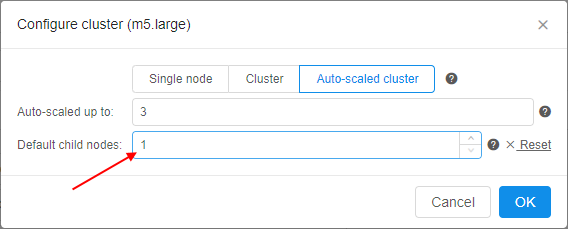
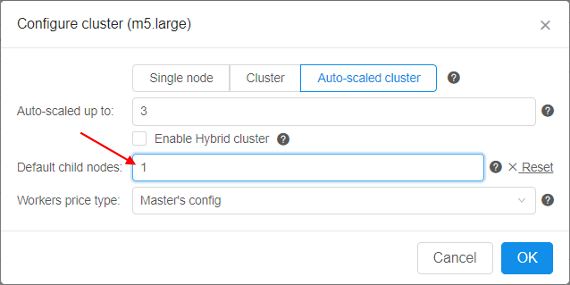
Minor changes in auto-scaled cluster description

diff --git a/docs/md/manual/06_Manage_Pipeline/6._Manage_Pipeline.md b/docs/md/manual/06_Manage_Pipeline/6._Manage_Pipeline.md
@@ -198,7 +198,7 @@ A configuration specifies:
 |  | **Docker image** | A name of a Docker image to use for a pipeline execution (e.g. "library/gromacs-gpu"). |
 |  | **Node type** | An instance type in terms of the specific Cloud Provider: CPU, RAM, GPU (e.g. 2 CPU cores, 8 Gb RAM, 0 GPU cores). |
 |  | **Disk** | Size of a disk in gigabytes, that will be attached to the instance in Gb. |
-|  | **Configure cluster** button | On-click, pop-up window will be shown:<br />![CP_ManagePipeline](attachments/ManagePipeline_07.png)<br />Here you can configure cluster or auto-scaled cluster. Cluster is a collection of instances which are connected so that they can be used together on a task. In both cases, a number of additional worker nodes with some main node as cluster head are launching (total number of pipelines = "number of working nodes" + 1). See [v.0.14 - 7.2. Launch Detached Configuration](../07_Manage_Detached_configuration/7.2._Launch_Detached_Configuration.md) for details.<br /><br />In case of using **cluster**, an exact count of worker nodes is directly defined by the user before launching the task and could not changing during the run.<br /><br />In case of using **auto-scaled cluster**, a max count of worker nodes is defined by the user before launching the task but really used count of worker nodes can change during the run depending on the jobs queue load. See [Appendix C. Working with autoscaled cluster runs](../Appendix_C/Appendix_C._Working_with_autoscaled_cluster_runs.md) for details.<br /><br />For configure cluster:<ul><li>in opened window click **Cluster** button</li><li>specify a number of child nodes (workers' count)</li><li>if you want to use **GridEngine** server for the cluster, tick the **Enable GridEngine** checkbox. Setting of that checkbox automatically adds the **`CP_CAP_SGE`** system parameter with value `true`.<br />**_Note_**: you may set this and other system parameters manually - see the example of using system parameters [here](6.1._Create_and_configure_pipeline.md#example-create-a-configuration-that-uses-system-parameter).</li><li>if you want to use **Apache Spark** for the cluster, tick the **Enable Apache Spark** checkbox. Setting of that checkbox automatically adds the **`CP_CAP_SPARK`** system parameter with value `true`. See the example of using **Apache Spark** [here](../15_Interactive_services/15.4._Interactive_service_examples.md#running-apache-spark-cluster-with-rstudio-web-gui).</li><li>if you want to use **Slurm** for the cluster, tick the **Enable Slurm** checkbox. Setting of that checkbox automatically adds the **`CP_CAP_SLURM`** system parameter with value `true`. See the example of using **Slurm** [here](../15_Interactive_services/15.2._Using_Terminal_access.md#example-using-of-slurm-for-the-cloud-pipelines-clusters).</li><li>click **OK** button:</li>![CP_ManagePipeline](attachments/ManagePipeline_08.png)</ul><blockquote>When user selects **Cluster** option, information on total cluster resources is shown. Resources are calculated as **(CPU/RAM/GPU)\*(NUMBER\_OF\_WORKERS\+1)**:<br />![CP_ManagePipeline](attachments/ManagePipeline_09.png)</blockquote><br />For configure **auto-scaled cluster**:<ul><li>in opened window click **Auto-scaled cluster** button</li><li>specify a number of child nodes (workers' count) in field **Auto-scaled up to** and click **OK** button:</li>![CP_ManagePipeline](attachments/ManagePipeline_10.png)<br />**_Note_**: that number is meaning total count of "auto-scaled" nodes - it is the max count of worker nodes that could be attached to the main node to work together as cluster. These nodes will be attached to the cluster only in case if some jobs are in waiting state longer than a specific time. Also these nodes will be dropped from the cluster in case when jobs queue is empty or all jobs are running and there are some idle nodes longer than a specific time.<br />**_Note_**: about timeout periods for scale-up and scale-down of auto-scaled cluster see [here](../12_Manage_Settings/12.10._Manage_system-level_settings.md#grid-engine-autoscaling).<li>also you may specify a number of "persistent" child nodes (workers' count) - click **Setup default child nodes count**, input **Default child nodes** number and click **Ok** button:</li>![CP_ManagePipeline](attachments/ManagePipeline_11.png)<br />These default child nodes will be never "scaled-down" during the run regardless of jobs queue load. In the example above, total count of "auto-scaled" nodes - 3, and 1 of them is "persistent".<br />**_Note_**: total count of child nodes always must be greater than count of default ("persistent") child nodes.<li>if you don't want to use default ("persistent") child nodes in your auto-scaled cluster - click **Reset** button opposite the **Default child nodes** field.</li></ul><blockquote>When user selects **Auto-scaled cluster**, information on total cluster resources is shown as interval - from the "min" configuration to "max" configuration:<br />"min" configuration resources are calculated as **(CPU/RAM/GPU)\*(NUMBER\_OF\_DEFAULT\_WORKERS\+1)**<br />"max" configuration resources are calculated as **(CPU/RAM/GPU)\*(TOTAL\_NUMBER\_OF\_WORKERS\+1)**<br /><br />E.g. for auto-scaled cluster with 2 child nodes and without default ("persistent") child nodes _(NUMBER\_OF\_DEFAULT\_WORKERS = 0; TOTAL\_NUMBER\_OF\_WORKERS = 2)_:<br />![CP_ManagePipeline](attachments/ManagePipeline_12.png)<br /><br />E.g. for auto-scaled cluster with 2 child nodes and 1 default ("persistent") child node _(NUMBER\_OF\_DEFAULT\_WORKERS = 1; TOTAL\_NUMBER\_OF\_WORKERS = 2)_:<br />![CP_ManagePipeline](attachments/ManagePipeline_13.png)</blockquote>**_Note_**: if you don't want to use any cluster - click **Single node** button and then click **OK** button. |
+|  | **Configure cluster** button | On-click, pop-up window will be shown:<br />![CP_ManagePipeline](attachments/ManagePipeline_07.png)<br />Here you can configure cluster or auto-scaled cluster. Cluster is a collection of instances which are connected so that they can be used together on a task. In both cases, a number of additional worker nodes with some main node as cluster head are launching (total number of pipelines = "number of working nodes" + 1). See [v.0.14 - 7.2. Launch Detached Configuration](../07_Manage_Detached_configuration/7.2._Launch_Detached_Configuration.md) for details.<br /><br />In case of using **cluster**, an exact count of worker nodes is directly defined by the user before launching the task and could not changing during the run.<br /><br />In case of using **auto-scaled cluster**, a max count of worker nodes is defined by the user before launching the task but really used count of worker nodes can change during the run depending on the jobs queue load. See [Appendix C. Working with autoscaled cluster runs](../Appendix_C/Appendix_C._Working_with_autoscaled_cluster_runs.md) for details.<br /><br />For configure cluster:<ul><li>in opened window click **Cluster** button</li><li>specify a number of child nodes (workers' count)</li><li>if you want to use **GridEngine** server for the cluster, tick the **Enable GridEngine** checkbox. Setting of that checkbox automatically adds the **`CP_CAP_SGE`** system parameter with value `true`.<br />**_Note_**: you may set this and other system parameters manually - see the example of using system parameters [here](6.1._Create_and_configure_pipeline.md#example-create-a-configuration-that-uses-system-parameter).</li><li>if you want to use **Apache Spark** for the cluster, tick the **Enable Apache Spark** checkbox. Setting of that checkbox automatically adds the **`CP_CAP_SPARK`** system parameter with value `true`. See the example of using **Apache Spark** [here](../15_Interactive_services/15.4._Interactive_service_examples.md#running-apache-spark-cluster-with-rstudio-web-gui).</li><li>if you want to use **Slurm** for the cluster, tick the **Enable Slurm** checkbox. Setting of that checkbox automatically adds the **`CP_CAP_SLURM`** system parameter with value `true`. See the example of using **Slurm** [here](../15_Interactive_services/15.2._Using_Terminal_access.md#example-using-of-slurm-for-the-cloud-pipelines-clusters).</li><li>click **OK** button:</li>![CP_ManagePipeline](attachments/ManagePipeline_08.png)</ul><blockquote>When user selects **Cluster** option, information on total cluster resources is shown. Resources are calculated as **(CPU/RAM/GPU)\*(NUMBER\_OF\_WORKERS\+1)**:<br />![CP_ManagePipeline](attachments/ManagePipeline_09.png)</blockquote><br />For configure **auto-scaled cluster**:<ul><li>in opened window click **Auto-scaled cluster** button</li><li>specify a number of child nodes (workers' count) in field **Auto-scaled up to** and click **OK** button:<br />![CP_ManagePipeline](attachments/ManagePipeline_10.png)<br />**_Note_**: that number is meaning total count of "auto-scaled" nodes - it is the max count of worker nodes that could be attached to the main node to work together as cluster. These nodes will be attached to the cluster only in case if some jobs are in waiting state longer than a specific time. Also these nodes will be dropped from the cluster in case when jobs queue is empty or all jobs are running and there are some idle nodes longer than a specific time.<br />**_Note_**: about timeout periods for scale-up and scale-down of auto-scaled cluster see [here](../12_Manage_Settings/12.10._Manage_system-level_settings.md#grid-engine-autoscaling).</li><li>**_additionally_** you may enable `hybrid` mode for the auto-scaled cluster - it allows to scale-up the cluster (attach a worker node) with the instance type distinct of the master - worker is being picked up based on the amount of unsatisfied CPU requirements of all pending jobs. For that behavior, set the "**Enable Hybrid cluster**" checkbox. For more details see [here](../Appendix_C/Appendix_C._Working_with_autoscaled_cluster_runs.md#hybrid-cluster).</li><li>**_additionally_** you may specify a number of "persistent" child nodes (workers' count) - click **Setup default child nodes count**, input **Default child nodes** number and click **Ok** button:<br />![CP_ManagePipeline](attachments/ManagePipeline_11.png)<br /><ul><li>These default child nodes will be never "scaled-down" during the run regardless of jobs queue load. In the example above, total count of "auto-scaled" nodes - 3, and 1 of them is "persistent".<br />**_Note_**: total count of child nodes always must be greater than count of default ("persistent") child nodes.</li><li>if you don't want to use default ("persistent") child nodes in your auto-scaled cluster - click **Reset** button opposite the **Default child nodes** field.</li></ul></li><li>**_additionally_** you may choose a price type for workers that will be attached during the run - via the "**Workers price type**" dropdown list - workers' price type can be automatically the same as the master node type (by default) or forcibly specified regardless on the master's type:<br />![CP_ManagePipeline](attachments/ManagePipeline_34.png)</li></ul><blockquote>When user selects **Auto-scaled cluster**, information on total cluster resources is shown as interval - from the "min" configuration to "max" configuration:<br />"min" configuration resources are calculated as **(CPU/RAM/GPU)\*(NUMBER\_OF\_DEFAULT\_WORKERS\+1)**<br />"max" configuration resources are calculated as **(CPU/RAM/GPU)\*(TOTAL\_NUMBER\_OF\_WORKERS\+1)**<br /><br />E.g. for auto-scaled cluster with 2 child nodes and without default ("persistent") child nodes _(NUMBER\_OF\_DEFAULT\_WORKERS = 0; TOTAL\_NUMBER\_OF\_WORKERS = 2)_:<br />![CP_ManagePipeline](attachments/ManagePipeline_12.png)<br /><br />E.g. for auto-scaled cluster with 2 child nodes and 1 default ("persistent") child node _(NUMBER\_OF\_DEFAULT\_WORKERS = 1; TOTAL\_NUMBER\_OF\_WORKERS = 2)_:<br />![CP_ManagePipeline](attachments/ManagePipeline_13.png)<br /><br />**_Note_**: in some specific configurations such as **_hybrid autoscaling clusters_** amount of resources can vary beyond the shown interval.</blockquote>**_Note_**: if you don't want to use any cluster - click **Single node** button and then click **OK** button. |
 |  | **Cloud Region** | A specific region for a compute node placement.<br />Please note, if a non-default region is selected - certain CP features may be unavailable:<br /><ul><li>FS mounts usage from the another region (e.g. "_EU West_" region cannot use FS mounts from the "_US East_"). Regular storages will be still available</li><li>If a specific tool, used for a run, requires an on-premise license server (e.g. monolix, matlab, schrodinger, etc.) - such instances shall be run in a region, that hosts those license servers.</li></ul><blockquote>**_Note_**: if a specific platform deployment has a number of Cloud Providers registered (e.g. `AWS`+`Azure`, `GCP`+`Azure`) - in that control Cloud Provider auxiliary icons also will be displayed, e.g.:<br />![CP_ManagePipeline](../07_Manage_Detached_configuration/attachments/Manage_Detached_Configuration_5.png)<br />For a single-Provider deployments only Cloud Region icons are displayed.</blockquote> |
 | **Advanced** |  |  |
 |  | **Price type** | Choose Spot or On-demand type of instance. You can look information about price types hovering "Info" icon and based on it make your choice. |

diff --git a/docs/md/release_notes/v.0.16/v.0.16_-_Release_notes.md b/docs/md/release_notes/v.0.16/v.0.16_-_Release_notes.md
@@ -494,9 +494,12 @@ Previously, autoscale workers could have only fixed instance type (the same as t
 
 In the current version the `hybrid` behavior for the **GE Autoscaler** was implemented, that allows processing the data even if the initial node type is not enough. That behavior allows to scale-up the cluster (attach a worker node) with the instance type distinct of the master - worker is being picked up based on the amount of unsatisfied **CPU** requirements of all pending jobs (according to required slots and parallel environment types).
 
-There are several **System parameters** to configure that behavior:
+To enable `hybrid` mode for auto-scaled cluster set the corresponding checkbox in the cluster settings before the run:  
+    ![CP_v.0.16_ReleaseNotes](attachments/RN016_HybridAutoscaler_4.png)
 
-- **`CP_CAP_AUTOSCALE_HYBRID`** (_boolean_) - enables the `hybrid` mode. In that mode the additional worker type can vary within either master instance type family (or `CP_CAP_AUTOSCALE_HYBRID_FAMILY` if specified). If `disabled` or not specified - the **GE Autoscaler** will work in a general regimen (when scaled-up workers have the same instance type as the master node)
+On the other hand, there are several **System parameters** to configure `hybrid` behavior in details:
+
+- **`CP_CAP_AUTOSCALE_HYBRID`** (_boolean_) - enables the `hybrid` mode (_the same as the "Enable Hybrid cluster" checkbox setting_). In that mode the additional worker type can vary within either master instance type family (or `CP_CAP_AUTOSCALE_HYBRID_FAMILY` if specified). If `disabled` or not specified - the **GE Autoscaler** will work in a general regimen (when scaled-up workers have the same instance type as the master node)
 - **`CP_CAP_AUTOSCALE_HYBRID_FAMILY`** (_string_) - defines the instance "family", from which the **GE Autoscaler** should pick up the worker node in case of `hybrid` behavior. If not specified (by default) - the **GE Autoscaler** will pick up worker instance from the same "family" as the master node
 - **`CP_CAP_AUTOSCALE_HYBRID_MAX_CORE_PER_NODE`** (_string_) - determines the maximum number of instance cores for the node to be scaled up by the **GE Autoscaler** in case of `hybrid` behavior
 

diff --git a/docs/md/manual/14_CLI/14.5._Manage_pipeline_executions_via_CLI.md b/docs/md/manual/14_CLI/14.5._Manage_pipeline_executions_via_CLI.md
@@ -43,11 +43,11 @@ That command without any arguments will list all active runs available for the c
 
 To view information about specific run - enter its RunID at the end of the command, e.g.:  
     ![CP_ManagePipelineExecutionsViaCLI](attachments/PipelineExecutions_11.png)  
-    You can additionally display information about instance used by a specific run - by the `-nd` (`--node-details`) flag:  
+You can additionally display information about instance used by a specific run - by the `-nd` (`--node-details`) flag:  
     ![CP_ManagePipelineExecutionsViaCLI](attachments/PipelineExecutions_17.png)  
-    You can additionally display information about pipeline parameters used by a specific run - by the `-pd` (`--parameters-details`) flag:  
+You can additionally display information about pipeline parameters used by a specific run - by the `-pd` (`--parameters-details`) flag:  
     ![CP_ManagePipelineExecutionsViaCLI](attachments/PipelineExecutions_18.png)  
-    You can additionally display information about run tasks - by the `-td` (`--tasks-details`) flag:  
+You can additionally display information about run tasks - by the `-td` (`--tasks-details`) flag:  
     ![CP_ManagePipelineExecutionsViaCLI](attachments/PipelineExecutions_19.png)
 
 **_Note_**: by default, the `view-runs` command outputs information about **_active_** runs.  
@@ -67,7 +67,7 @@ Datetime shall be specified in one of the following formats: **yyyy-MM-dd HH:mm:
     ![CP_ManagePipelineExecutionsViaCLI](attachments/PipelineExecutions_14.png)
 
 Option `-dt` (`--date-to`) allows to output runs **_completed_** before specified datetime.  
-**_Note_**: since the `view-runs` command outputs by default information about active runs, then for using that command with the `-dt` option one of the completed statuses must be specified, e.g.:
+**_Note_**: since the `view-runs` command outputs by default information about active runs, then for using that command with the `-dt` option one of the completed statuses must be specified, e.g.:  
     ![CP_ManagePipelineExecutionsViaCLI](attachments/PipelineExecutions_24.png)
 
 To list history of runs for a specific pipeline use the `-p` (`--pipeline`) option and a pipeline name.  
